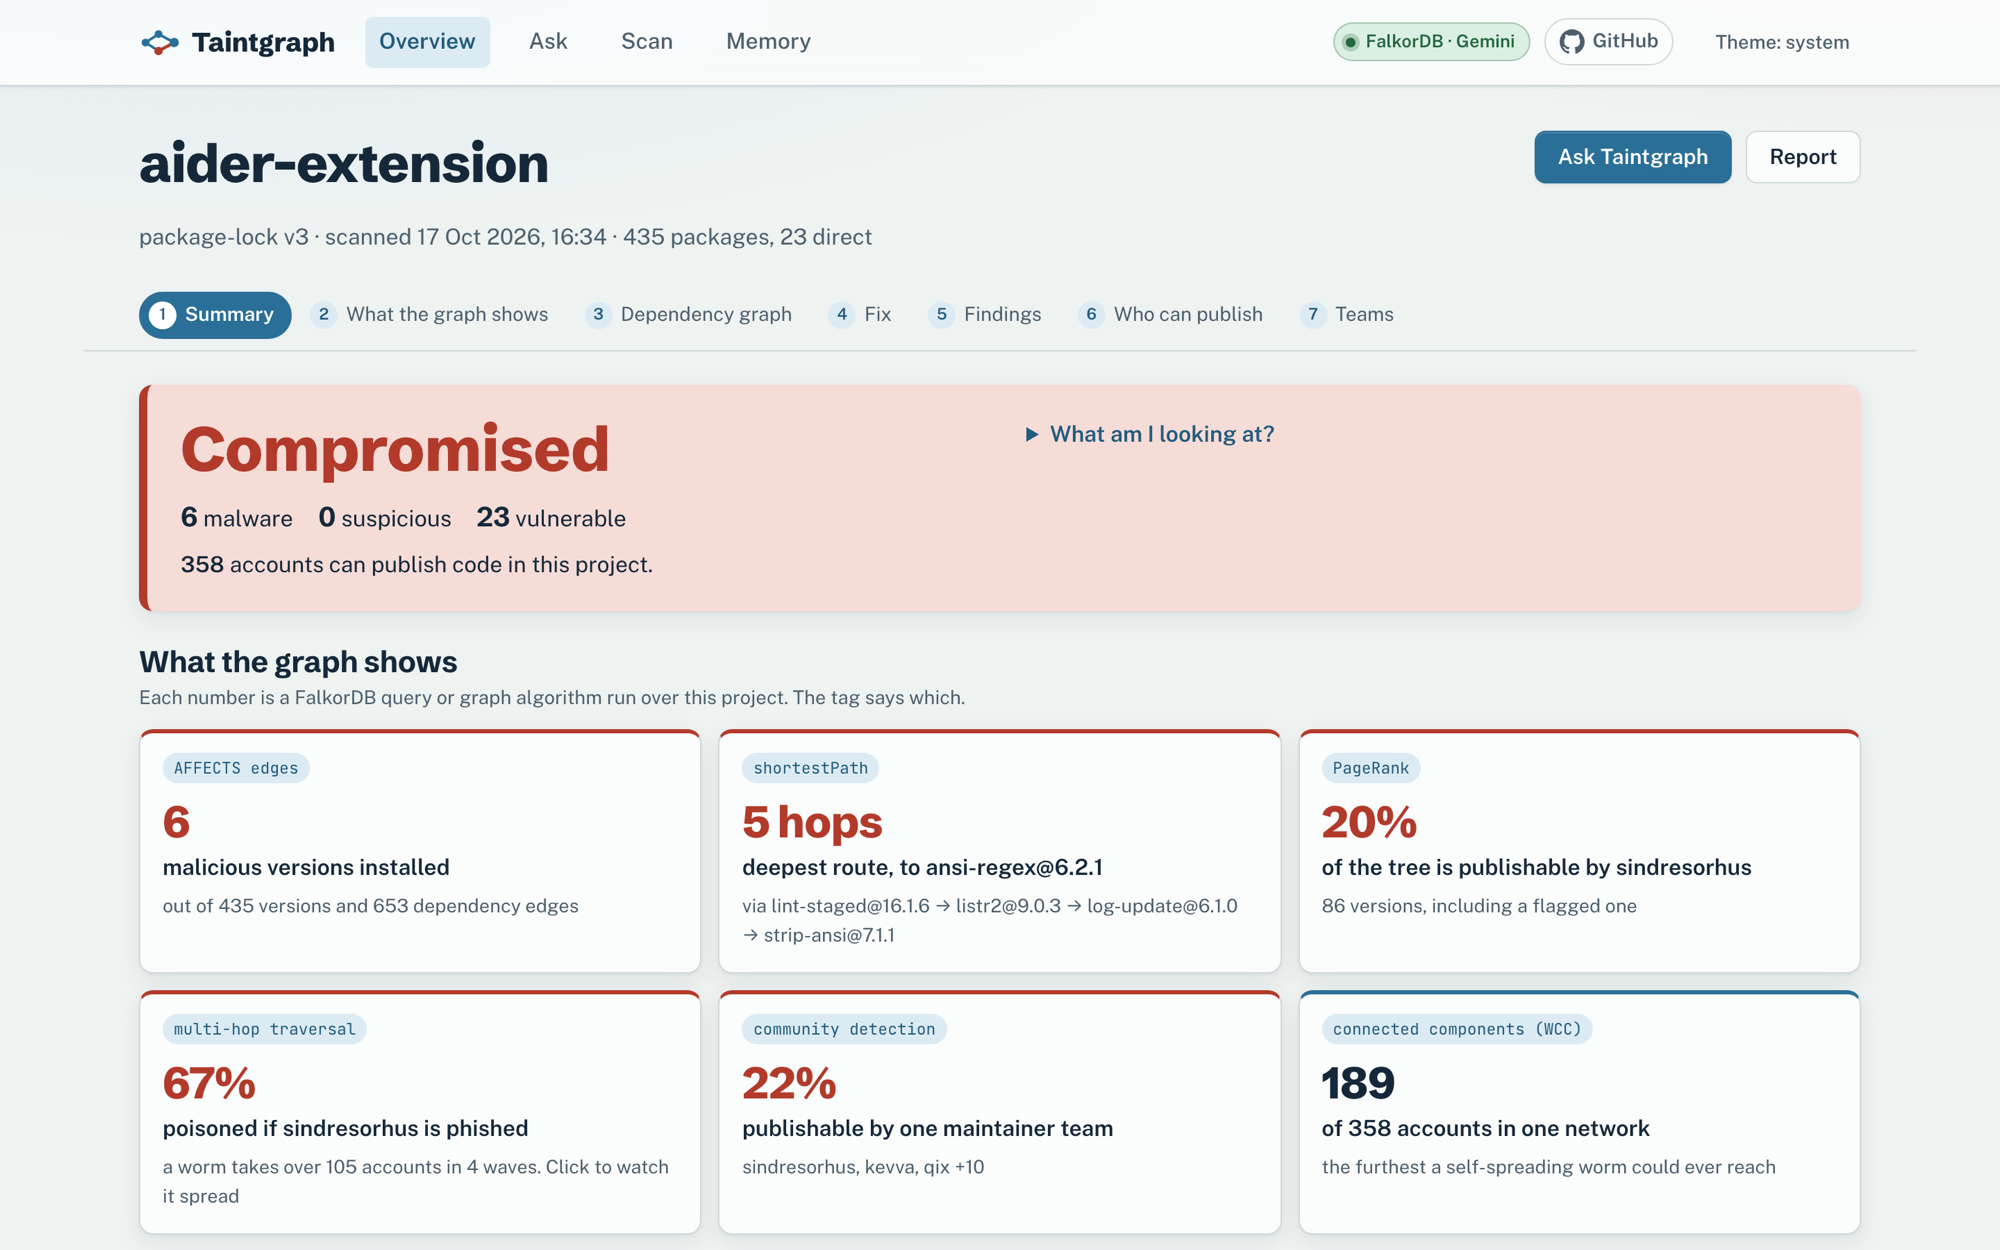
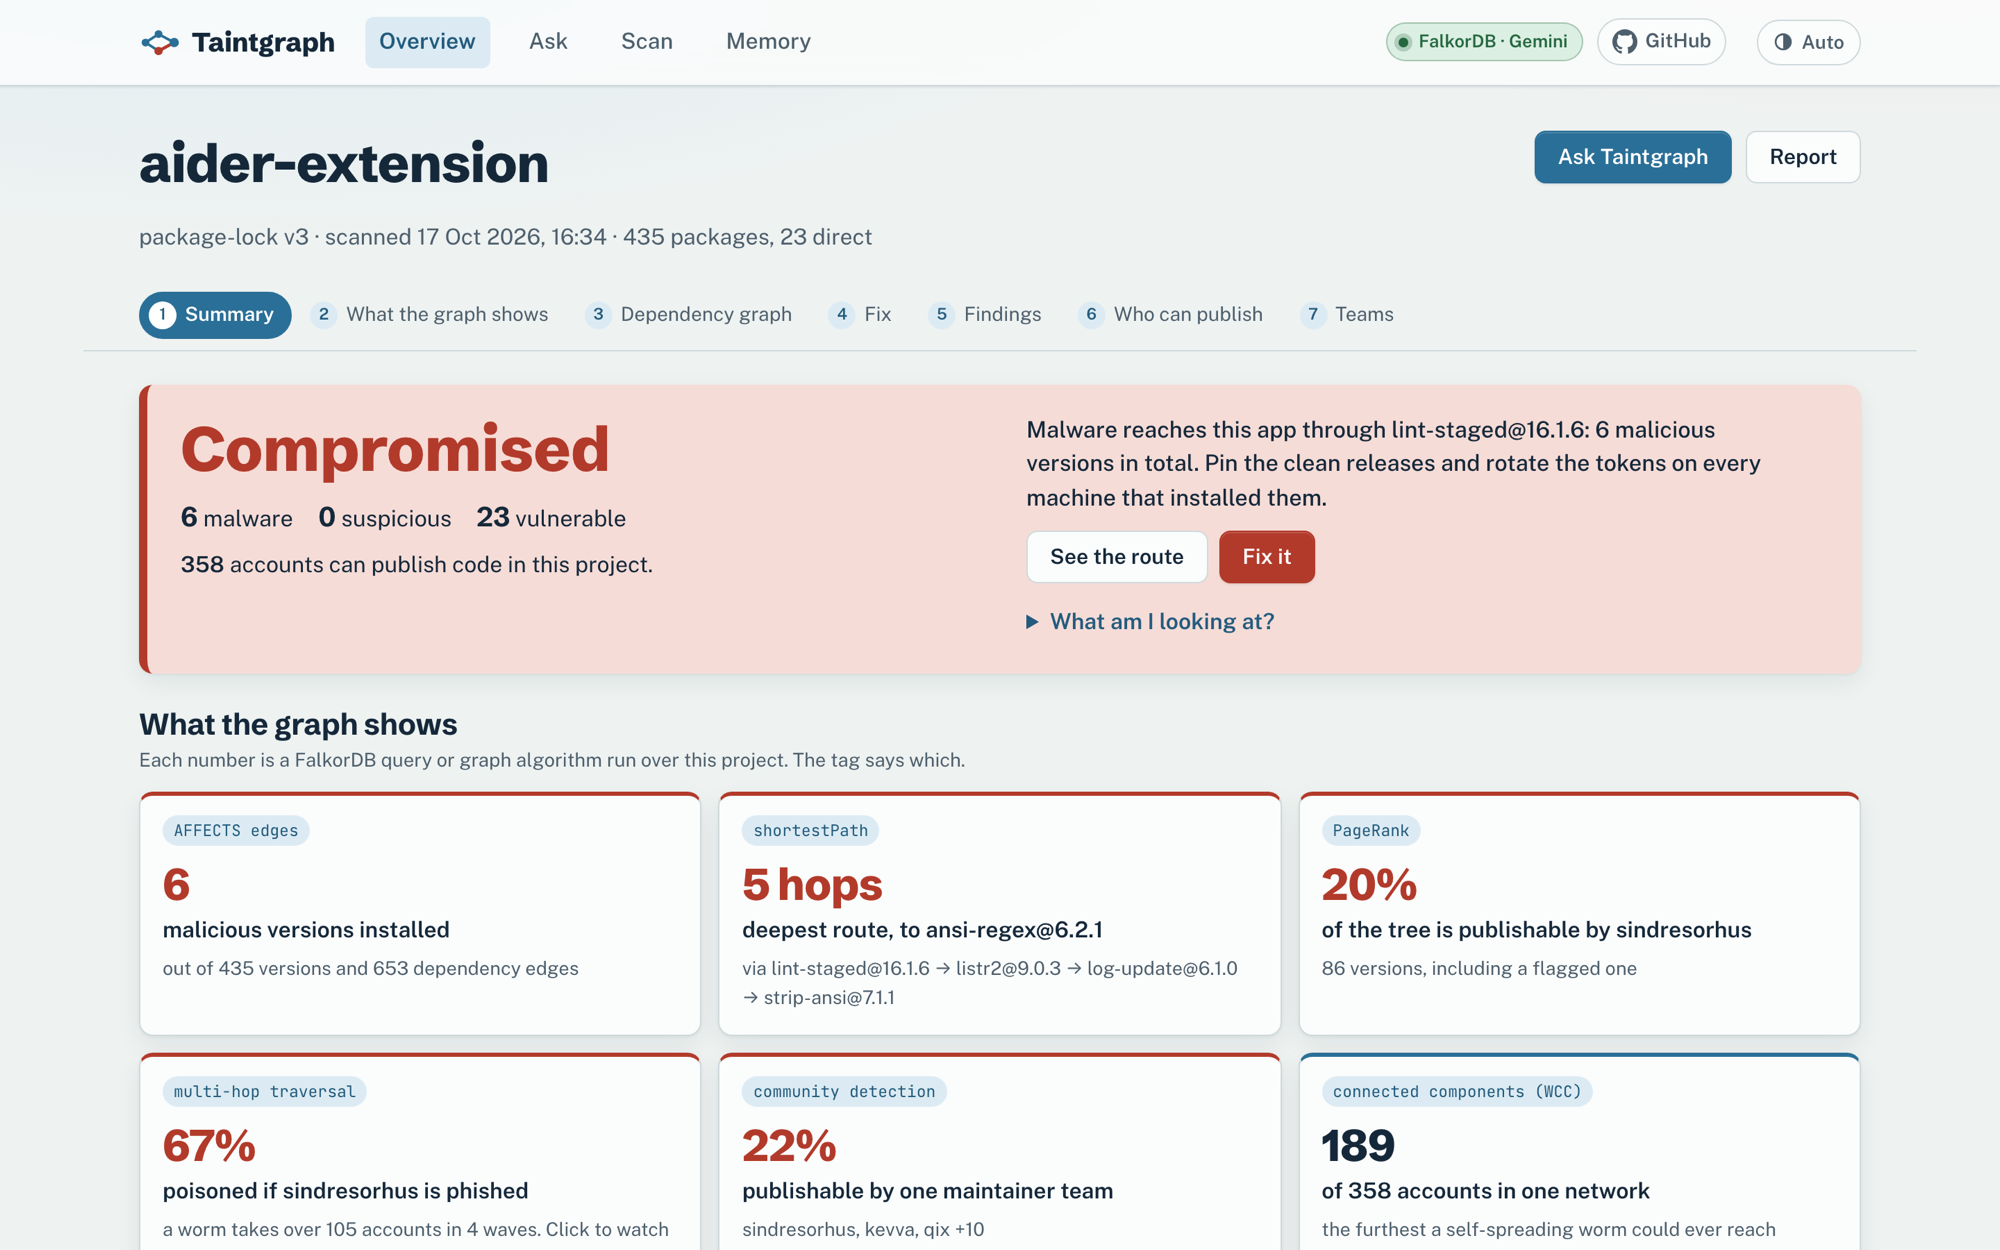
Add a diagnosis to the verdict and lead the scan page with GitHub

Changed region(s): [[0.062, 0.3432, 0.93, 0.9984], [0.651, 0.0, 0.93, 0.0624]]

diff --git a/web/src/components/Project.tsx b/web/src/components/Project.tsx
@@ -1,6 +1,6 @@
 import { useCallback, useEffect, useMemo, useRef, useState } from "react";
 import type { DependencyGraph, FindingStatus, ProjectSummary } from "@api/types";
-import { api, findingGroup, formatWhen, isoTime, prefersReducedMotion, toApiError, VERDICT_LABEL } from "../api";
+import { api, signalLabel, findingGroup, formatWhen, isoTime, prefersReducedMotion, toApiError, VERDICT_LABEL } from "../api";
 import { href } from "../App";
 import Graph from "./Graph";
 import Findings, { type FocusRequest } from "./Findings";
@@ -76,6 +76,36 @@ function ReportDialog({ id, open, onClose }: { id: string; open: boolean; onClos
       </div>
     </dialog>
   );
+}
+
+/** Scroll to a section heading, leaving room for the section bar. */
+function jump(id: string) {
+  const el = document.getElementById(id);
+  if (el) window.scrollTo({ top: el.getBoundingClientRect().top + window.scrollY - 64, behavior: "smooth" });
+}
+
+/** One sentence: what is wrong and where it comes in, from the open findings. */
+function diagnosis(s: ProjectSummary): string {
+  const live = s.findings.filter((f) => f.status === "open" || f.status === "confirmed");
+  const bad = live.filter((f) => ["malware", "possible_malware", "removed"].includes(f.signal));
+  const short = (k: string) => k.replace(/^(npm|pypi)\//, "");
+  if (bad.length) {
+    const via = new Map<string, number>();
+    for (const f of bad) {
+      const entry = f.path.length > 2 ? short(f.path[1]) : "a direct dependency";
+      via.set(entry, (via.get(entry) ?? 0) + 1);
+    }
+    const [top, n] = [...via].sort((a, b) => b[1] - a[1])[0];
+    const versions = new Set(bad.map((f) => f.versionKey)).size;
+    return top === "a direct dependency"
+      ? `${versions} malicious ${versions === 1 ? "version is" : "versions are"} installed directly by this project. Remove or pin ${versions === 1 ? "it" : "them"}, then rotate the tokens on every machine that installed ${versions === 1 ? "it" : "them"}.`
+      : `Malware reaches this app through ${top}${n < bad.length ? ` and ${via.size - 1} more ${via.size - 1 === 1 ? "route" : "routes"}` : ""}: ${versions} malicious ${versions === 1 ? "version" : "versions"} in total. Pin the clean releases and rotate the tokens on every machine that installed them.`;
+  }
+  const odd = live.filter((f) => !["vulnerability"].includes(f.signal));
+  if (odd.length) return `No known malware, but ${odd.length} ${odd.length === 1 ? "finding needs" : "findings need"} review, such as ${odd[0].name}@${odd[0].version} (${signalLabel(odd[0].signal).toLowerCase()}). Check ${odd.length === 1 ? "it" : "them"} before the next install.`;
+  const vulns = live.filter((f) => f.signal === "vulnerability");
+  if (vulns.length) return `No malware or tampering. ${vulns.length} known ${vulns.length === 1 ? "vulnerability needs" : "vulnerabilities need"} upgrades, starting with ${vulns[0].name}@${vulns[0].version}.`;
+  return "Nothing malicious, tampered or vulnerable was found in this project's dependencies.";
 }
 
 export default function Project({ id }: { id: string }) {
@@ -261,6 +291,16 @@ export default function Project({ id }: { id: string }) {
             project.
           </p>
         </div>
+        <div className="verdict-side">
+          <p className="diagnosis">{diagnosis(summary)}</p>
+          <div className="verdict-actions-row">
+            <button type="button" className="btn" onClick={() => jump("graph-h")}>
+              See the route
+            </button>
+            <button type="button" className="btn btn-primary" onClick={() => jump("fix-h")}>
+              Fix it
+            </button>
+          </div>
         <details className="explain">
           <summary>What am I looking at?</summary>
           <div className="explain-body">
@@ -287,6 +327,7 @@ export default function Project({ id }: { id: string }) {
             </p>
           </div>
         </details>
+        </div>
       </section>
 
       <Insights projectId={summary.id} scanId={summary.scanId} onSimulate={simulate} />

diff --git a/web/src/styles.css b/web/src/styles.css
@@ -3222,3 +3222,71 @@ body {
 .page h2 {
   letter-spacing: -0.01em;
 }
+
+/* Round 3 ------------------------------------------------------------------------------------- */
+
+/* Verdict: diagnosis and next steps on the right */
+.verdict {
+  align-items: start;
+}
+.verdict-side {
+  display: grid;
+  gap: 12px;
+  max-width: 560px;
+}
+.diagnosis {
+  margin: 0;
+  font-size: 1.02rem;
+  line-height: 1.5;
+  font-weight: 500;
+}
+.verdict-actions-row {
+  display: flex;
+  gap: 8px;
+  flex-wrap: wrap;
+}
+.verdict-compromised .verdict-actions-row .btn-primary {
+  background: var(--taint);
+  border-color: var(--taint);
+  color: var(--on-taint);
+}
+
+/* Scan page: the GitHub repo field first, as a card */
+.intake-inputs {
+  display: flex;
+  flex-direction: column;
+  gap: 18px;
+}
+.github-form {
+  order: -1;
+  background: var(--surface);
+  border: 1px solid var(--line);
+  border-left: 4px solid var(--river);
+  border-radius: var(--radius);
+  padding: 16px 18px;
+  box-shadow: var(--shadow);
+  margin: 0;
+}
+.github-form label {
+  font-family: var(--font-head);
+  font-size: 1.08rem;
+  font-weight: 700;
+}
+
+/* Theme switch as a pill */
+.theme-toggle {
+  display: inline-flex;
+  align-items: center;
+  gap: 6px;
+  font-size: 0.85rem;
+  font-weight: 600;
+  color: var(--muted);
+  border: 1px solid var(--line);
+  border-radius: 999px;
+  padding: 5px 11px;
+  background: var(--surface);
+}
+.theme-toggle:hover {
+  color: var(--ink);
+  border-color: var(--river);
+}

diff --git a/web/src/App.tsx b/web/src/App.tsx
@@ -186,7 +186,19 @@ function ThemeToggle() {
   const label = theme === "system" ? "Theme: system" : theme === "light" ? "Theme: light" : "Theme: dark";
   return (
     <button type="button" className="btn-quiet theme-toggle" onClick={() => setTheme(next)} aria-label={`${label}. Switch to ${next}.`}>
-      {label}
+      <svg viewBox="0 0 16 16" width="14" height="14" aria-hidden="true" focusable="false">
+        {theme === "dark" ? (
+          <path fill="currentColor" d="M6.2 1.1a.6.6 0 0 1 .2.7 5.5 5.5 0 0 0 7.8 7.8.6.6 0 0 1 .8.8A7 7 0 1 1 5.5.9a.6.6 0 0 1 .7.2Z" />
+        ) : theme === "light" ? (
+          <g fill="currentColor">
+            <circle cx="8" cy="8" r="3.2" />
+            <path d="M8 0.8v2M8 13.2v2M0.8 8h2M13.2 8h2M2.9 2.9l1.4 1.4M11.7 11.7l1.4 1.4M2.9 13.1l1.4-1.4M11.7 4.3l1.4-1.4" stroke="currentColor" strokeWidth="1.4" strokeLinecap="round" />
+          </g>
+        ) : (
+          <path fill="currentColor" d="M8 1a7 7 0 1 0 0 14A7 7 0 0 0 8 1Zm0 1.5v11a5.5 5.5 0 0 1 0-11Z" />
+        )}
+      </svg>
+      {theme === "system" ? "Auto" : theme === "light" ? "Light" : "Dark"}
     </button>
   );
 }
